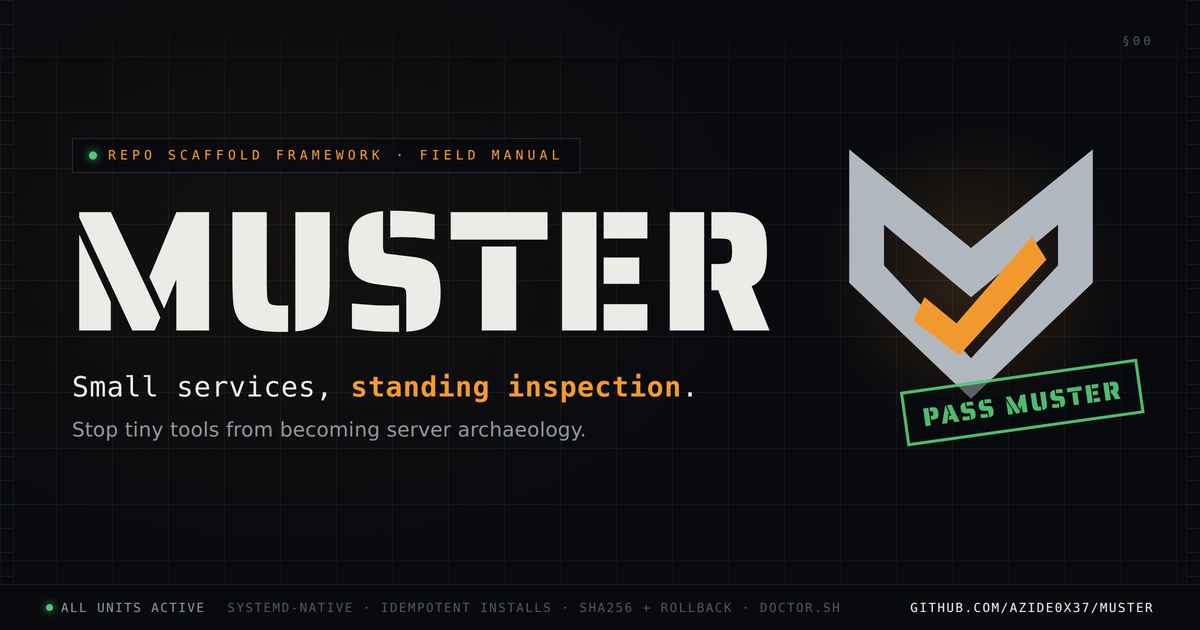
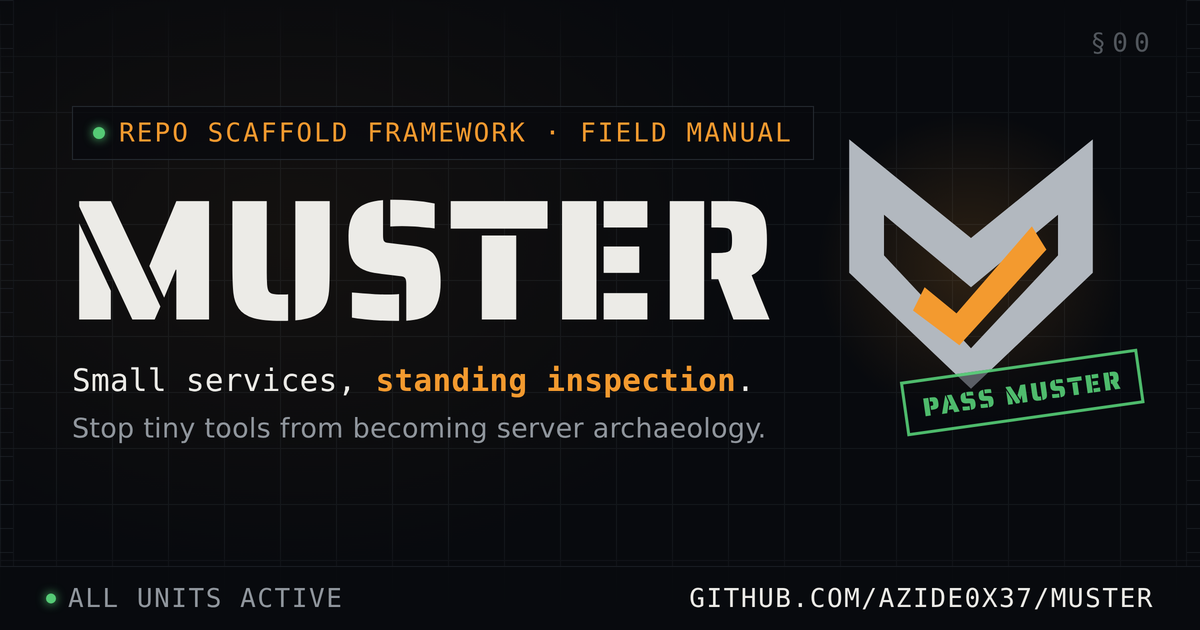
Raise the OG card's small text so the stamp sets the type floor
Kicker, sub line, bottom status bar, and section index move up to 26-27px
so the 26px PASS MUSTER stamp is the smallest type on the card; the tag
steps up to 31px to keep hierarchy. The bottom bar keeps its status LED
and repo URL at the larger size (the trait list no longer fits at 26px
across 1200px and the kicker/tag/sub already carry it).

Claude-Session: https://claude.ai/code/session_01PtxsGtb6pkjcDMuccYAaiw

diff --git a/assets/brand/og-card.html b/assets/brand/og-card.html
@@ -66,7 +66,7 @@ body {
 }
 /* side rulers */
 .ruler {
-  position: absolute; top: 0; bottom: 46px; width: 14px; z-index: 5; opacity: .55;
+  position: absolute; top: 0; bottom: 64px; width: 14px; z-index: 5; opacity: .55;
   background-image: repeating-linear-gradient(to bottom, var(--line) 0 1px, transparent 1px 24px);
 }
 .ruler.left { left: 0; border-right: 1px solid var(--line-soft); }
@@ -74,33 +74,33 @@ body {
 
 /* section index, top right */
 .sect-idx {
-  position: absolute; top: 34px; right: 46px; z-index: 6;
-  font-family: var(--mono); font-size: 12px; letter-spacing: .28em; color: var(--faint);
+  position: absolute; top: 28px; right: 44px; z-index: 6;
+  font-family: var(--mono); font-size: 26px; letter-spacing: .24em; color: var(--faint);
 }
 
 /* ---------- text block ---------- */
-.stack { position: absolute; left: 72px; top: 138px; z-index: 10; }
+.stack { position: absolute; left: 72px; top: 106px; z-index: 10; }
 .kicker {
-  display: inline-flex; align-items: center; gap: 11px;
-  font-family: var(--mono); font-size: 13px; letter-spacing: .32em; text-transform: uppercase;
-  color: var(--accent); border: 1px solid var(--line); padding: 9px 16px;
+  display: inline-flex; align-items: center; gap: 14px;
+  font-family: var(--mono); font-size: 26px; letter-spacing: .08em; text-transform: uppercase;
+  color: var(--accent); border: 1px solid var(--line); padding: 11px 20px;
   background: color-mix(in oklab, var(--bg) 72%, transparent);
 }
-.led { width: 8px; height: 8px; border-radius: 50%; background: var(--good); box-shadow: 0 0 9px var(--good); }
+.led { width: 12px; height: 12px; border-radius: 50%; background: var(--good); box-shadow: 0 0 10px var(--good); flex: none; }
 h1 {
   font-family: var(--stencil); font-weight: 400;
   font-size: 172px; line-height: .86; letter-spacing: .01em; text-transform: uppercase;
-  margin: 24px 0 0 -4px; color: var(--fg);
+  margin: 26px 0 0 -4px; color: var(--fg);
 }
 .tag {
-  font-family: var(--mono); font-size: 28px; letter-spacing: .02em;
-  margin-top: 26px; color: var(--fg);
+  font-family: var(--mono); font-size: 31px; letter-spacing: .01em;
+  margin-top: 28px; color: var(--fg);
 }
 .tag b { color: var(--accent); font-weight: 600; }
-.sub { margin-top: 15px; font-size: 20px; color: var(--muted); letter-spacing: .01em; }
+.sub { margin-top: 14px; font-size: 27px; color: var(--muted); letter-spacing: .01em; }
 
 /* ---------- insignia ---------- */
-.insignia { position: absolute; right: 84px; top: 132px; z-index: 8; width: 290px; height: 290px; }
+.insignia { position: absolute; right: 84px; top: 122px; z-index: 8; width: 290px; height: 290px; }
 .insignia .glow {
   position: absolute; inset: -70px;
   background: radial-gradient(closest-side, oklch(0.76 0.155 65 / 0.16), transparent 72%);
@@ -117,17 +117,16 @@ h1 {
 /* ---------- bottom status bar ---------- */
 .chrome-bottom {
   position: absolute; left: 0; right: 0; bottom: 0; z-index: 15;
-  display: flex; align-items: center; gap: 22px;
-  height: 46px; padding: 0 46px;
+  display: flex; align-items: center; gap: 24px;
+  height: 64px; padding: 0 46px;
   background: color-mix(in oklab, var(--bg) 86%, transparent);
   border-top: 1px solid var(--line-soft);
-  font-family: var(--mono); font-size: 12.5px; letter-spacing: .12em; color: var(--muted);
+  font-family: var(--mono); font-size: 26px; letter-spacing: .06em; color: var(--muted);
   text-transform: uppercase;
 }
-.chrome-bottom .unit { display: flex; align-items: center; gap: 8px; white-space: nowrap; }
-.chrome-bottom .unit .led { width: 7px; height: 7px; }
+.chrome-bottom .unit { display: flex; align-items: center; gap: 12px; white-space: nowrap; }
+.chrome-bottom .unit .led { width: 10px; height: 10px; }
 .chrome-bottom .spacer { flex: 1; }
-.chrome-bottom .dim { color: var(--faint); }
 .chrome-bottom .url { color: var(--fg); }
 </style>
 </head>
@@ -156,11 +155,8 @@ h1 {
 
   <div class="chrome-bottom">
     <span class="unit"><span class="led"></span>All units active</span>
-    <span class="unit dim">systemd-native · idempotent installs · sha256 + rollback · doctor.sh</span>
     <span class="spacer"></span>
     <span class="unit url">github.com/azide0x37/muster</span>
   </div>
-
-  
 </body>
 </html>